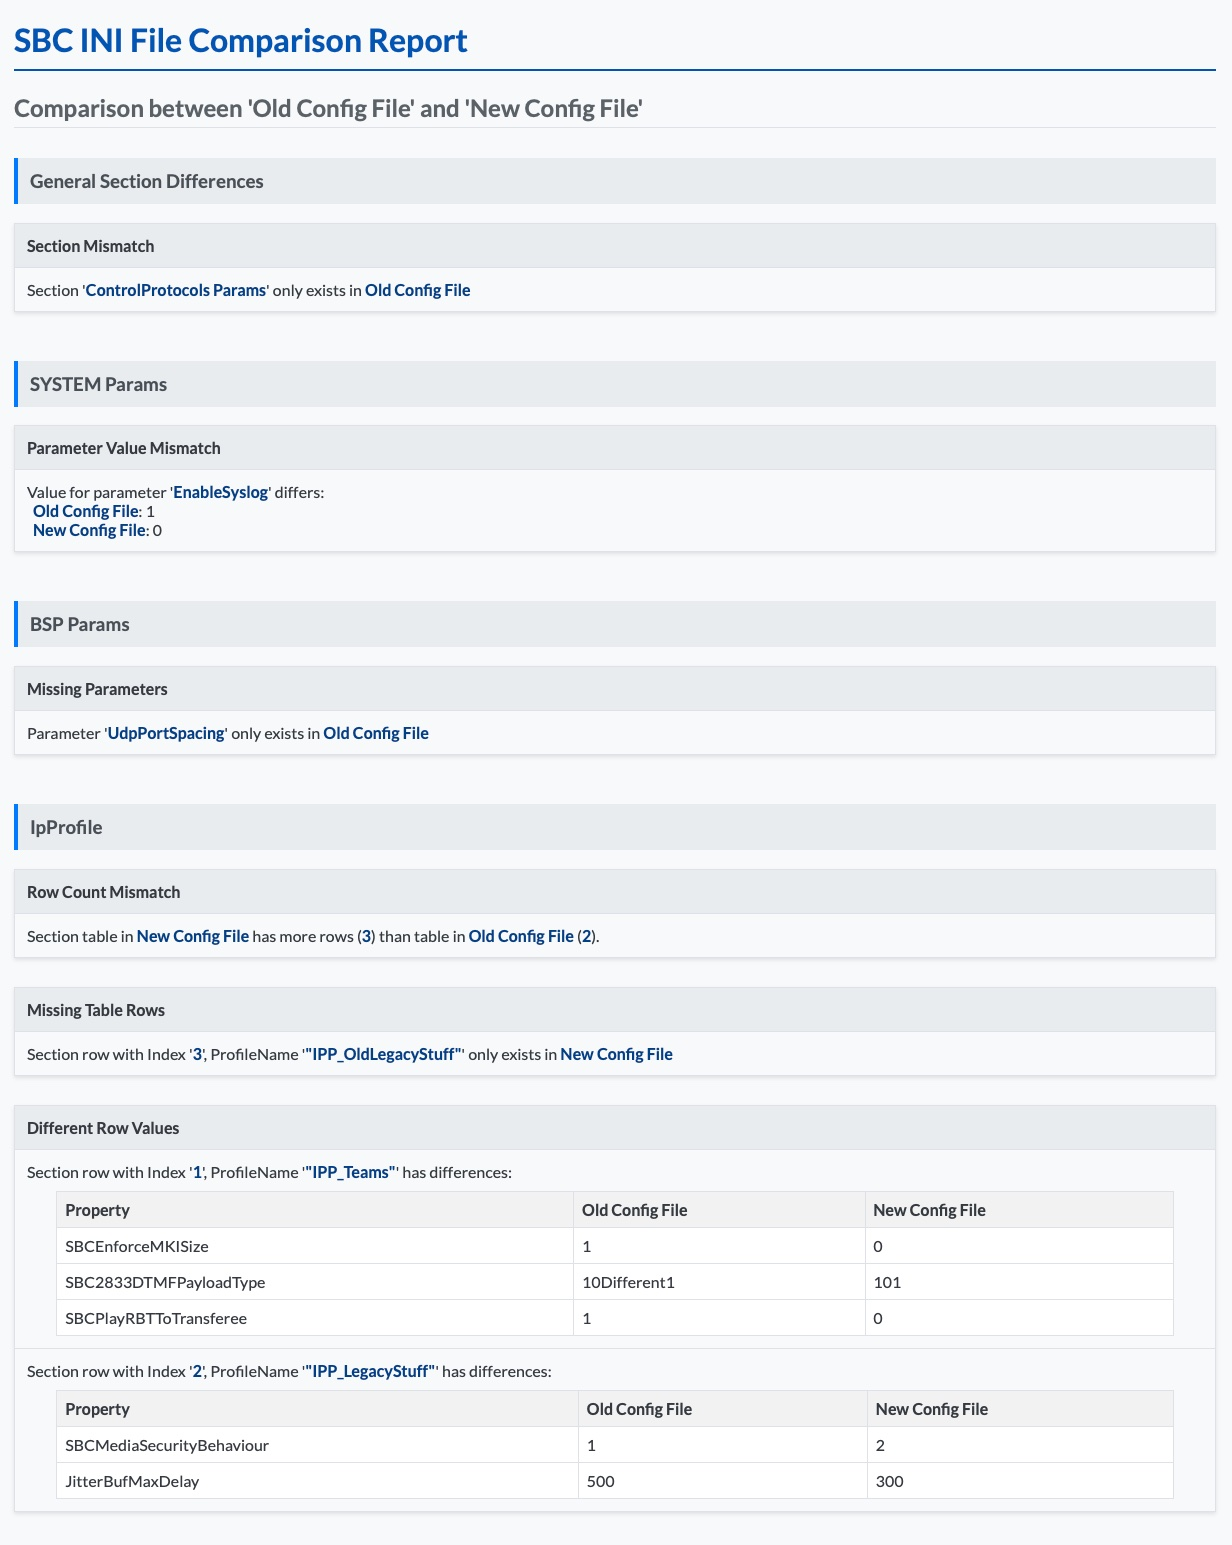
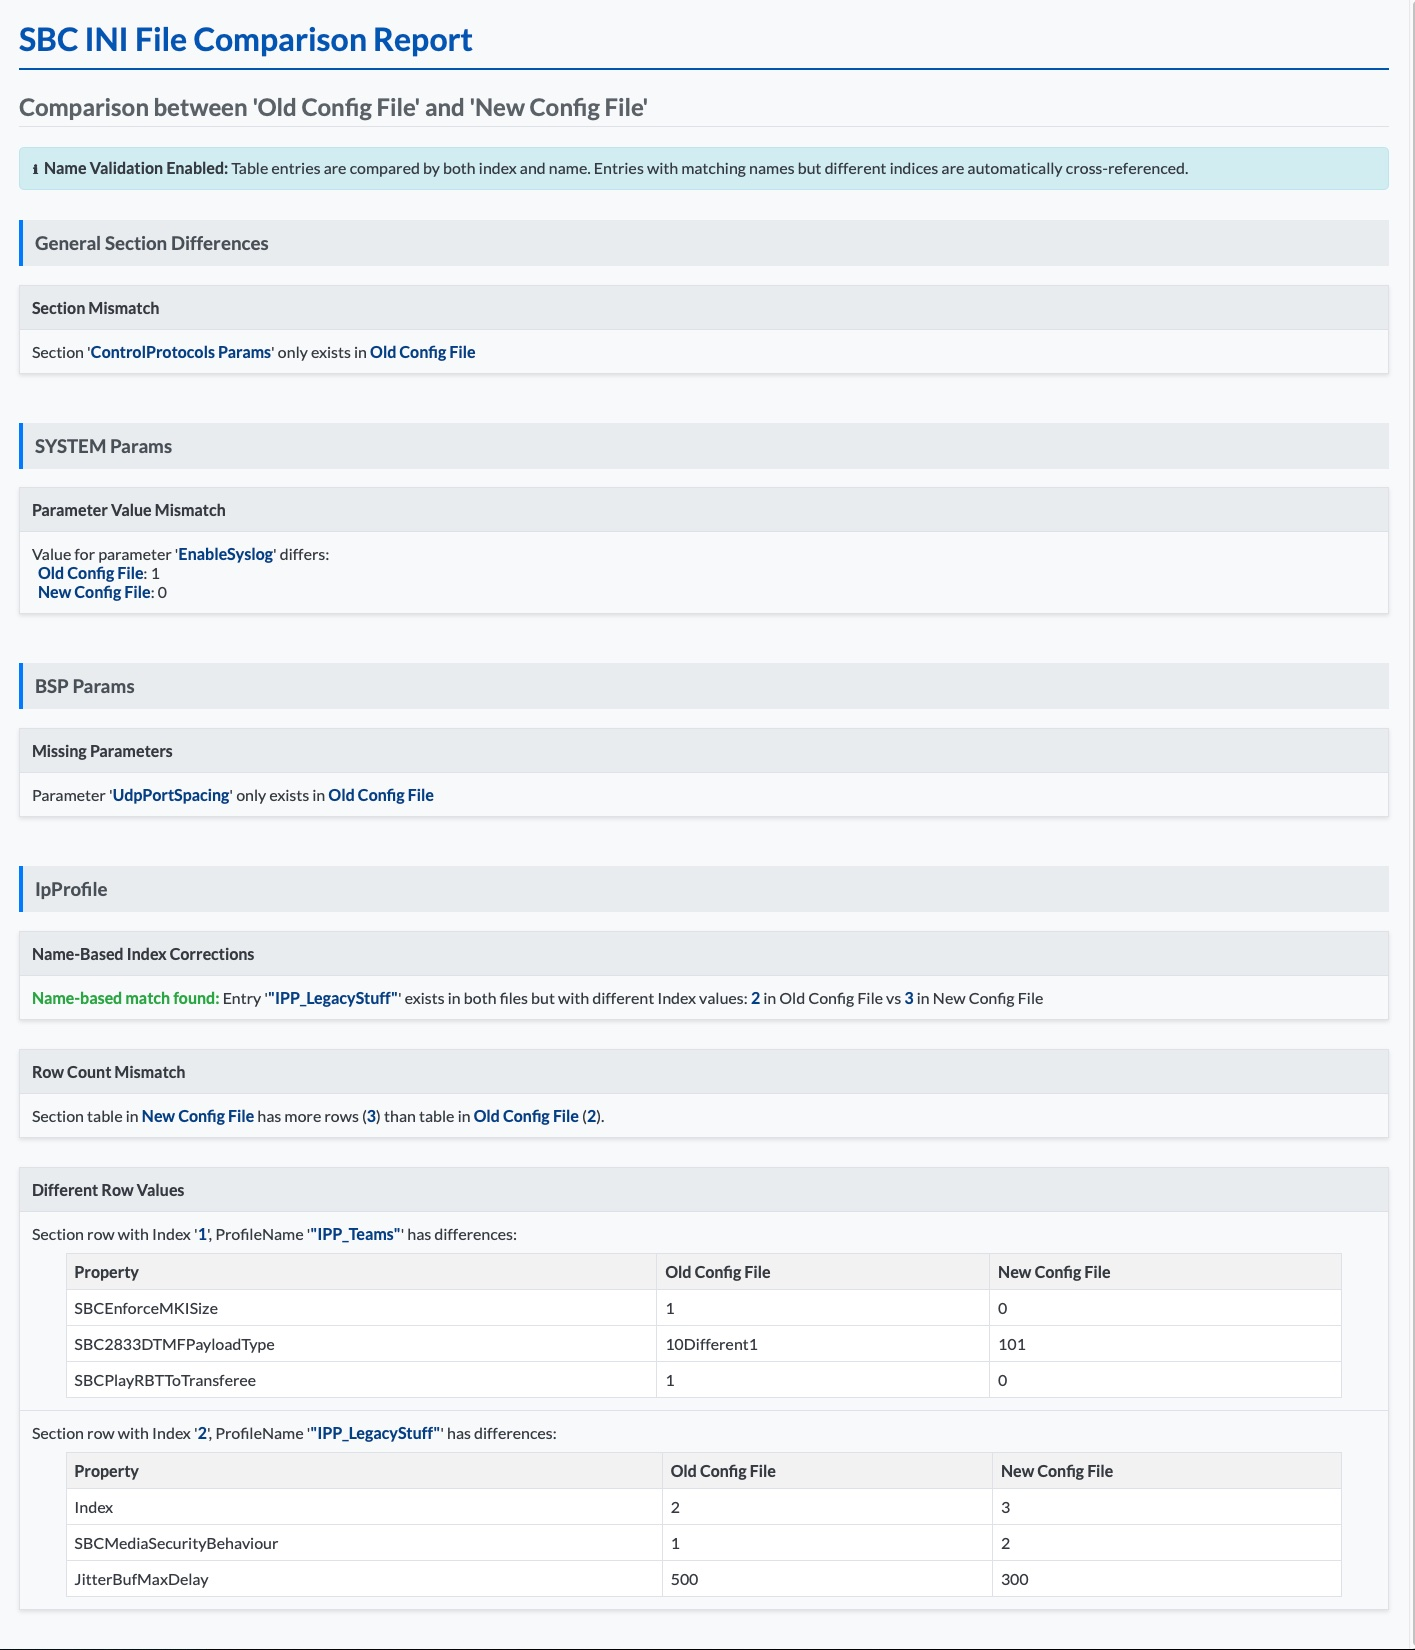
Add IncludeNameValidation parameter for enhanced comparison
- Introduced `-IncludeNameValidation` parameter to enable name-based comparison for table entries.
- Updated README to reflect new parameter and resolved limitations in previous versions.
- Enhanced visual feedback in console output for matched entries.
- Updated sample report image.

diff --git a/README.md b/README.md
@@ -61,6 +61,7 @@ The script generates an HTML report highlighting all differences found between t
 | SBCIniFilePath2 | Path to second INI file |
 | SBCName2 | Display name for second SBC (used in the report) |
 | ReportFilePath | Path where the HTML report should be saved |
+| IncludeNameValidation | **[New]** Enable name-based comparison for table entries (Default: $false) |
 
 ## 🚀 Getting Started
 
@@ -71,9 +72,33 @@ The script generates an HTML report highlighting all differences found between t
 
 ## ⚠ Current Limitations
 
-The script currently has difficulty handling mismatched indexes containing the same content. For example, if both INI files have an IP Profile named "Teams" with identical settings, but on the first SBC it's listed as index 0 and on the second as index 1, the script will show them as different.
+~~The script currently has difficulty handling mismatched indexes containing the same content. For example, if both INI files have an IP Profile named "Teams" with identical settings, but on the first SBC it's listed as index 0 and on the second as index 1, the script will show them as different.~~ ✅ **Resolved in v2.0**
 
+## 📅 Updates
 
+### 22.08.2025 - Major Feature Enhancement (v2.0)
+
+**Name-Based Validation & Enhanced Reporting**
+
+- **✅ New Parameter:** Added `-IncludeNameValidation` parameter to enable intelligent name-based comparison
+  - Automatically matches table entries by their names (e.g., IP Profile names) even when index positions differ
+  - Resolves the previous limitation where identical content at different indices was incorrectly flagged as different
+  
+- **✅ Enhanced Visual Feedback:**
+  - Console output now includes colored success indicators (✓) for matched entries
+  - Clear distinction between perfect matches and entries with differences
+  - Improved warning messages with detailed index position information
+
+**Usage with new feature:**
+```powershell
+.\Compare-ACSBCIniFiles.ps1  `
+    -SBCIniFilePath1 "C:\Temp\SBC1.ini"  `
+    -SBCName1 "Old Config File" `
+    -SBCIniFilePath2 "C:\Temp\SBC2.ini" `
+    -SBCName2 "New Config File" `
+    -IncludeNameValidation $true `
+    -ReportFilePath "C:\Temp\SBC-Comparison.html"
+```
 
 ---
 
